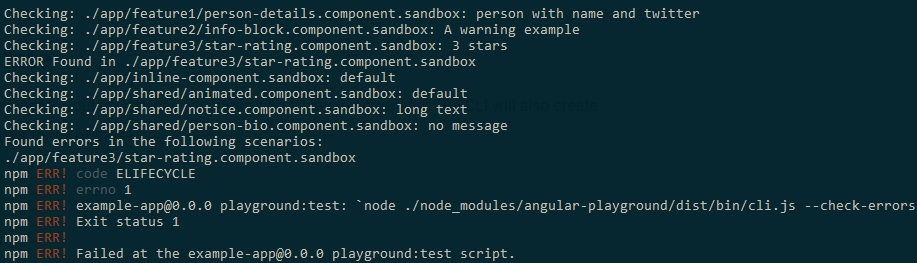
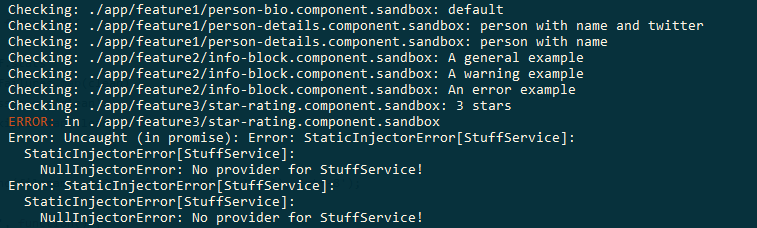
add reporter formats documentation

Changed region(s): [[0.0, 0.0, 1.0, 1.0]]

diff --git a/src/app/app.routes.ts b/src/app/app.routes.ts
@@ -19,6 +19,7 @@ import { CustomRootNgmoduleComponent } from 'app/docs/how-to/custom-root-ngmodul
 import { ConfigurationComponent } from 'app/docs/api/configuration/configuration.component';
 import { RunTheCliComponent } from 'app/docs/how-to/run-the-cli/run-the-cli.component';
 import { RunTestSuiteComponent } from 'app/docs/how-to/run-the-test-suite/run-the-test-suite.component';
+import { ReporterFormatsComponent } from 'app/docs/api/reporter-formats/reporter-formats.component';
 
 export const appRoutes: Routes = [
   { path: 'about', component: AboutComponent },
@@ -33,6 +34,7 @@ export const appRoutes: Routes = [
       { path: 'getting-started/non-angular-cli', component: NonAngularCliComponent },
       { path: 'api/sandbox', component: SandboxApiComponent },
       { path: 'api/configuration', component: ConfigurationComponent },
+      { path: 'api/reporter-formats', component: ReporterFormatsComponent },
       { path: 'how-to/sandboxing-components', component: SandboxingComponent },
       { path: 'how-to/run-the-cli', component: RunTheCliComponent },
       { path: 'how-to/run-the-test-suite', component: RunTestSuiteComponent },

diff --git a/src/app/docs/api/configuration/configuration.component.ts b/src/app/docs/api/configuration/configuration.component.ts
@@ -67,6 +67,23 @@ export class ConfigurationComponent {
                           script to connect to a Playground instance before timing out.`
         },
         {
+            name: 'reportPath',
+            type: 'string',
+            default: './sandbox.report.json',
+            cli: '--report-path',
+            description: `Used with checkErrors. Publishes to the provided path, if a valid report
+                          type is also provided.`
+        },
+        {
+            name: 'reportType',
+            type: 'string',
+            default: 'log',
+            cli: '--report-type',
+            possibleValues: ['log', 'json'],
+            description: `Used with checkErrors. Compiles the checkErrors script into a build-ready
+                          report.`
+        },
+        {
             name: 'angularCli.appName',
             type: 'string',
             default: 'playground',

diff --git a/src/app/docs/how-to/run-the-test-suite/run-the-test-suite.component.html b/src/app/docs/how-to/run-the-test-suite/run-the-test-suite.component.html
@@ -25,6 +25,19 @@ the scenario will also error.
 <div markdown path="/content/docs/check-errors/scenario.md"></div>
 <section markdown>
 
+#### Build Output
+
+The Playground checking utility supports the ability to publish JSON reports for build systems. To do this,
+you can use the `reportType` configuration parameter. For example, the following will publish a build to
+the provided file in JSON format when running the checking utility:
+
+```
+angular-playground --check-errors --report-path ./sandbox.report.json --report-type json
+```
+
+You can read more about report formats in the <a routerLink="/docs/api/reporter-formats">API documentation</a>.
+</section>
+<section markdown>
 #### Configuration
 
 There are additional configuration options that can be applied to `checkErrors`. You can read about them

diff --git a/src/app/app.module.ts b/src/app/app.module.ts
@@ -30,6 +30,7 @@ import { CustomRootNgmoduleComponent } from 'app/docs/how-to/custom-root-ngmodul
 import { ConfigurationComponent } from 'app/docs/api/configuration/configuration.component';
 import { RunTheCliComponent } from 'app/docs/how-to/run-the-cli/run-the-cli.component';
 import { RunTestSuiteComponent } from 'app/docs/how-to/run-the-test-suite/run-the-test-suite.component';
+import { ReporterFormatsComponent } from 'app/docs/api/reporter-formats/reporter-formats.component';
 
 
 @NgModule({
@@ -46,6 +47,7 @@ import { RunTestSuiteComponent } from 'app/docs/how-to/run-the-test-suite/run-th
     InstallingComponent,
     RunTheCliComponent,
     RunTestSuiteComponent,
+    ReporterFormatsComponent,
     AngularCliComponent,
     NonAngularCliComponent,
     SandboxingComponent,

diff --git a/src/app/docs/api/reporter-formats/reporter-formats.component.html b/src/app/docs/api/reporter-formats/reporter-formats.component.html
@@ -1,0 +1,17 @@
+<h1>Reporter Formats</h1>
+<section markdown>
+Playground currently supports two report formats:
+
+1. `log`: Console log, no report file published
+2. `json`: JSON output, defaults output file to `./sandbox.report.json`
+
+Specify a type with the `reportType` configuration flag.
+
+```
+angular-playground --check-errors --report-type json
+```
+
+Below is an example output file provided by the `JSONReporter`. It is based on mocha's JSON
+format, so you should be able to integrate it into your build process with the same parser.
+</section>
+<div markdown path="/content/docs/check-errors/report-json.md"></div>

diff --git a/src/app/docs/api/configuration/configuration.component.html b/src/app/docs/api/configuration/configuration.component.html
@@ -7,6 +7,12 @@
         <li><b>Type: </b>{{ conf.type }}</li>
         <li><b>Default: </b>{{ conf.default }}</li>
         <li *ngIf="conf.cli"><b>CLI: </b><code>{{ conf.cli }}</code></li>
+        <li *ngIf="conf.possibleValues">
+            <b>Possible Values: </b>
+            <span *ngFor="let val of conf.possibleValues">
+                <code>{{ val }}</code>&nbsp;
+            </span>
+        </li>
         <li><b>Description: </b>{{ conf.description }}</li>
     </ul>
 </div>

diff --git a/src/app/docs/docs.component.html b/src/app/docs/docs.component.html
@@ -142,6 +142,13 @@
       (click)="setShowNav(false)">
       CLI/Configuration
     </a>
+    <a
+      routerLink="/docs/api/reporter-formats"
+      routerLinkActive="nav__item--active"
+      class="nav__item"
+      (click)="setShowNav(false)">
+      Reporter Formats
+    </a>
   </div>
 </aside>
 <article class="content">

diff --git a/src/app/docs/api/reporter-formats/reporter-formats.component.ts b/src/app/docs/api/reporter-formats/reporter-formats.component.ts
@@ -1,0 +1,9 @@
+import { Component } from '@angular/core';
+
+@Component({
+    selector: 'app-reporter-formats',
+    templateUrl: './reporter-formats.component.html'
+})
+export class ReporterFormatsComponent {
+
+}

diff --git a/src/content/docs/check-errors/report-json.md b/src/content/docs/check-errors/report-json.md
@@ -1,0 +1,40 @@
+###### sandbox.report.json
+```json
+{
+  "stats": {
+    "tests": 4,
+    "failures": 1,
+    "start": 0,
+    "end": 0,
+    "suites": 1,
+    "pending": 0,
+    "duration": 0,
+    "time": 0,
+    "passes": 3
+  },
+  "failures": [
+    {
+      "title": "./app/feature3/star-rating.component.sandbox",
+      "err": {
+        "message": "Error: Uncaught (in promise): Error: StaticInjectorError[StuffService]:
+        StaticInjectorError[StuffService]: NullInjectorError: No provider for StuffService!
+        Error: StaticInjectorError[StuffService]: StaticInjectorError[StuffService]: 
+        NullInjectorError: No provider for StuffService! at _NullInjector.get >
+        ... <additional output omitted>"
+      }
+    }
+  ],
+  "passes": [
+    {
+      "title": "./app/feature1/person-bio.component.other.sandbox: a special case"
+    },
+    {
+      "title": "./app/feature1/person-bio.component.sandbox: default"
+    },
+    {
+      "title": "./app/feature1/person-details.component.sandbox: person with name and twitter"
+    }
+  ],
+  "skips": []
+}
+```

diff --git a/src/content/docs/api/config.md b/src/content/docs/api/config.md
@@ -11,6 +11,8 @@
   },
   "checkErrors": false,
   "randomScenario": false,
+  "reportPath": "./sandbox.report.json",
+  "reportType": "log",
   "timeout": 90,
   "noWatch": false,
   "noServe": false
